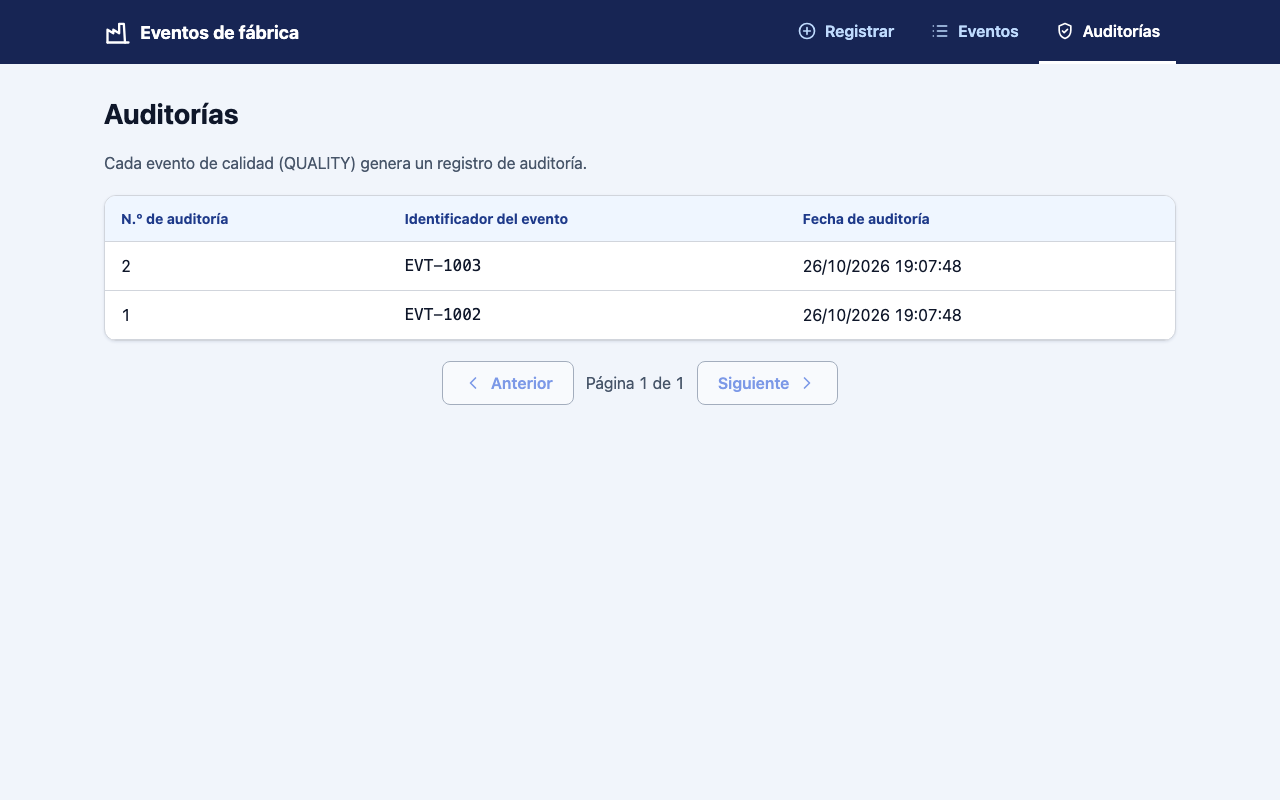
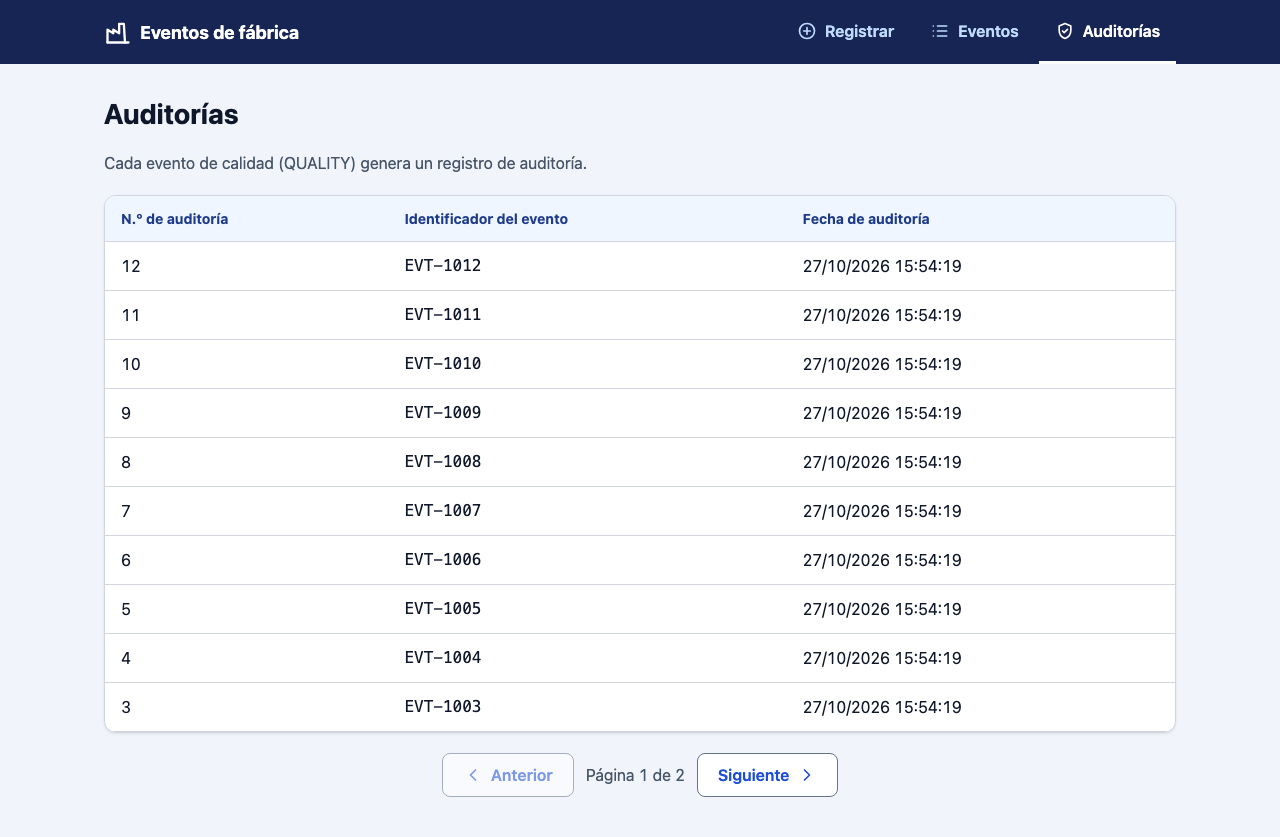
feat(frontend): show 10 rows per page in the events and audits tables

diff --git a/frontend/src/app/pages/audit-list/audit-list.spec.ts b/frontend/src/app/pages/audit-list/audit-list.spec.ts
@@ -14,8 +14,8 @@ function page(pageNumber: number, totalPages: number): PageResponse<AuditRespons
   return {
     content: [AUDIT],
     page: pageNumber,
-    size: 20,
-    totalElements: totalPages * 20,
+    size: 10,
+    totalElements: totalPages * 10,
     totalPages,
   };
 }
@@ -46,11 +46,22 @@ describe('AuditList', () => {
   }
 
   async function respond(pageNumber: number, body: object, status = 200): Promise<void> {
-    httpMock
-      .expectOne((r) => r.url === '/api/audits' && r.params.get('page') === String(pageNumber))
-      .flush(body, { status, statusText: String(status) });
+    const req = httpMock.expectOne(
+      (r) => r.url === '/api/audits' && r.params.get('page') === String(pageNumber),
+    );
+    expect(req.request.params.get('size')).toBe('10');
+    req.flush(body, { status, statusText: String(status) });
     await fixture.whenStable();
   }
+
+  it('UI-10 given the audits page when it loads then it asks for 10 rows of the first page', async () => {
+    const req = httpMock.expectOne((r) => r.url === '/api/audits');
+
+    expect(req.request.params.get('page')).toBe('0');
+    expect(req.request.params.get('size')).toBe('10');
+    req.flush(page(0, 1));
+    await fixture.whenStable();
+  });
 
   it('UI-10 given the request is in flight when the page renders then a loading message is shown', async () => {
     expect(text()).toContain('Cargando auditorías…');

diff --git a/frontend/src/app/pages/event-list/event-list.spec.ts b/frontend/src/app/pages/event-list/event-list.spec.ts
@@ -29,7 +29,7 @@ function page(
   pageNumber: number,
   totalPages: number,
 ): PageResponse<EventResponse> {
-  return { content, page: pageNumber, size: 20, totalElements: totalPages * 20, totalPages };
+  return { content, page: pageNumber, size: 10, totalElements: totalPages * 10, totalPages };
 }
 
 describe('EventList', () => {
@@ -61,7 +61,7 @@ describe('EventList', () => {
     const req = httpMock.expectOne(
       (r) => r.url === '/api/events' && r.params.get('page') === String(pageNumber),
     );
-    expect(req.request.params.has('size')).toBe(false);
+    expect(req.request.params.get('size')).toBe('10');
     req.flush(body, { status, statusText: String(status) });
     await fixture.whenStable();
   }
@@ -74,6 +74,15 @@ describe('EventList', () => {
       ]),
     );
   }
+
+  it('UI-09 given the events page when it loads then it asks for 10 rows of the first page', async () => {
+    const req = httpMock.expectOne((r) => r.url === '/api/events');
+
+    expect(req.request.params.get('page')).toBe('0');
+    expect(req.request.params.get('size')).toBe('10');
+    req.flush(page([], 0, 0));
+    await fixture.whenStable();
+  });
 
   it('UI-09 given the request is in flight when the page renders then a loading message is shown', async () => {
     expect(host.querySelector('app-status-message')!.getAttribute('role')).toBe('status');

diff --git a/frontend/src/app/pages/event-list/event-list.ts b/frontend/src/app/pages/event-list/event-list.ts
@@ -2,6 +2,7 @@ import { DatePipe } from '@angular/common';
 import { Component, computed, inject, signal } from '@angular/core';
 import { RouterLink } from '@angular/router';
 import { EVENT_TYPE_LABELS } from '../../models/event-type';
+import { TABLE_PAGE_SIZE } from '../../models/page';
 import { EventApi } from '../../services/event-api';
 import { toUiError } from '../../services/ui-error-mapper';
 import { Paginator } from '../shared/paginator/paginator';
@@ -16,7 +17,9 @@ import { StatusMessage } from '../shared/status-message/status-message';
 export class EventList {
   protected readonly typeLabels = EVENT_TYPE_LABELS;
   protected readonly page = signal(0);
-  protected readonly events = inject(EventApi).page(computed(() => ({ page: this.page() })));
+  protected readonly events = inject(EventApi).page(
+    computed(() => ({ page: this.page(), size: TABLE_PAGE_SIZE })),
+  );
   protected readonly error = computed(() => {
     const error = this.events.error();
     return error ? toUiError(error) : null;

diff --git a/frontend/src/app/pages/audit-list/audit-list.ts b/frontend/src/app/pages/audit-list/audit-list.ts
@@ -1,6 +1,7 @@
 import { DatePipe } from '@angular/common';
 import { Component, computed, inject, signal } from '@angular/core';
 import { RouterLink } from '@angular/router';
+import { TABLE_PAGE_SIZE } from '../../models/page';
 import { AuditApi } from '../../services/audit-api';
 import { toUiError } from '../../services/ui-error-mapper';
 import { Paginator } from '../shared/paginator/paginator';
@@ -14,7 +15,9 @@ import { StatusMessage } from '../shared/status-message/status-message';
 })
 export class AuditList {
   protected readonly page = signal(0);
-  protected readonly audits = inject(AuditApi).page(computed(() => ({ page: this.page() })));
+  protected readonly audits = inject(AuditApi).page(
+    computed(() => ({ page: this.page(), size: TABLE_PAGE_SIZE })),
+  );
   protected readonly error = computed(() => {
     const error = this.audits.error();
     return error ? toUiError(error) : null;

diff --git a/frontend/src/app/models/page.ts b/frontend/src/app/models/page.ts
@@ -1,3 +1,6 @@
+/** Rows per page in the UI tables; the API keeps its own default for direct clients (DT8). */
+export const TABLE_PAGE_SIZE = 10;
+
 export interface PageQuery {
   readonly page: number;
   /** When omitted, the backend applies its configured default size (DT8). */

diff --git a/README.md b/README.md
@@ -395,6 +395,7 @@ al priorizar la claridad.
 | Tres rutas con menú: registrar, eventos, auditorías. | Separa las tareas; cada pantalla tiene su título de pestaña. |
 | Tras un registro exitoso el formulario **conserva** los valores. | El enunciado pide poder reenviar el mismo `eventId` para probar la regla de duplicados. |
 | El resultado del envío se muestra en un aviso flotante arriba a la derecha (`position: sticky`), que queda hasta cerrarlo o hasta el próximo envío; los errores de cada campo siguen debajo del campo. | El usuario ve el resultado sin bajar ni perder de vista el formulario, y puede reenviar enseguida para probar el duplicado. El aviso no se cierra solo, así hay tiempo de leerlo y usar sus enlaces. |
+| Las tablas de eventos y auditorías piden 10 filas por página (`size=10`); la API mantiene su valor por defecto (20) para quien la use directo. | Con 10 filas la tabla entra casi completa en una notebook (medido: 10 filas visibles en 1440×800, 9 en 1280×720) y el paginador queda cerca; el tamaño de página es una decisión de la pantalla, no del contrato de la API. |
 | Validaciones locales espejo del backend (incluido el recorte del `eventId`); el backend sigue siendo la fuente de verdad. | Feedback inmediato sin depender de un request; los errores del servidor también se muestran bajo cada campo. |
 | Con el formulario inválido, el botón se ve deshabilitado (`aria-disabled`) pero al presionarlo marca los errores y lleva el foco al primer campo inválido; durante el envío está deshabilitado de verdad. | El usuario siempre sabe qué falta, y no hay doble envío. |
 | `timestamp` vacío no se envía. | Así lo asigna el servidor. |
